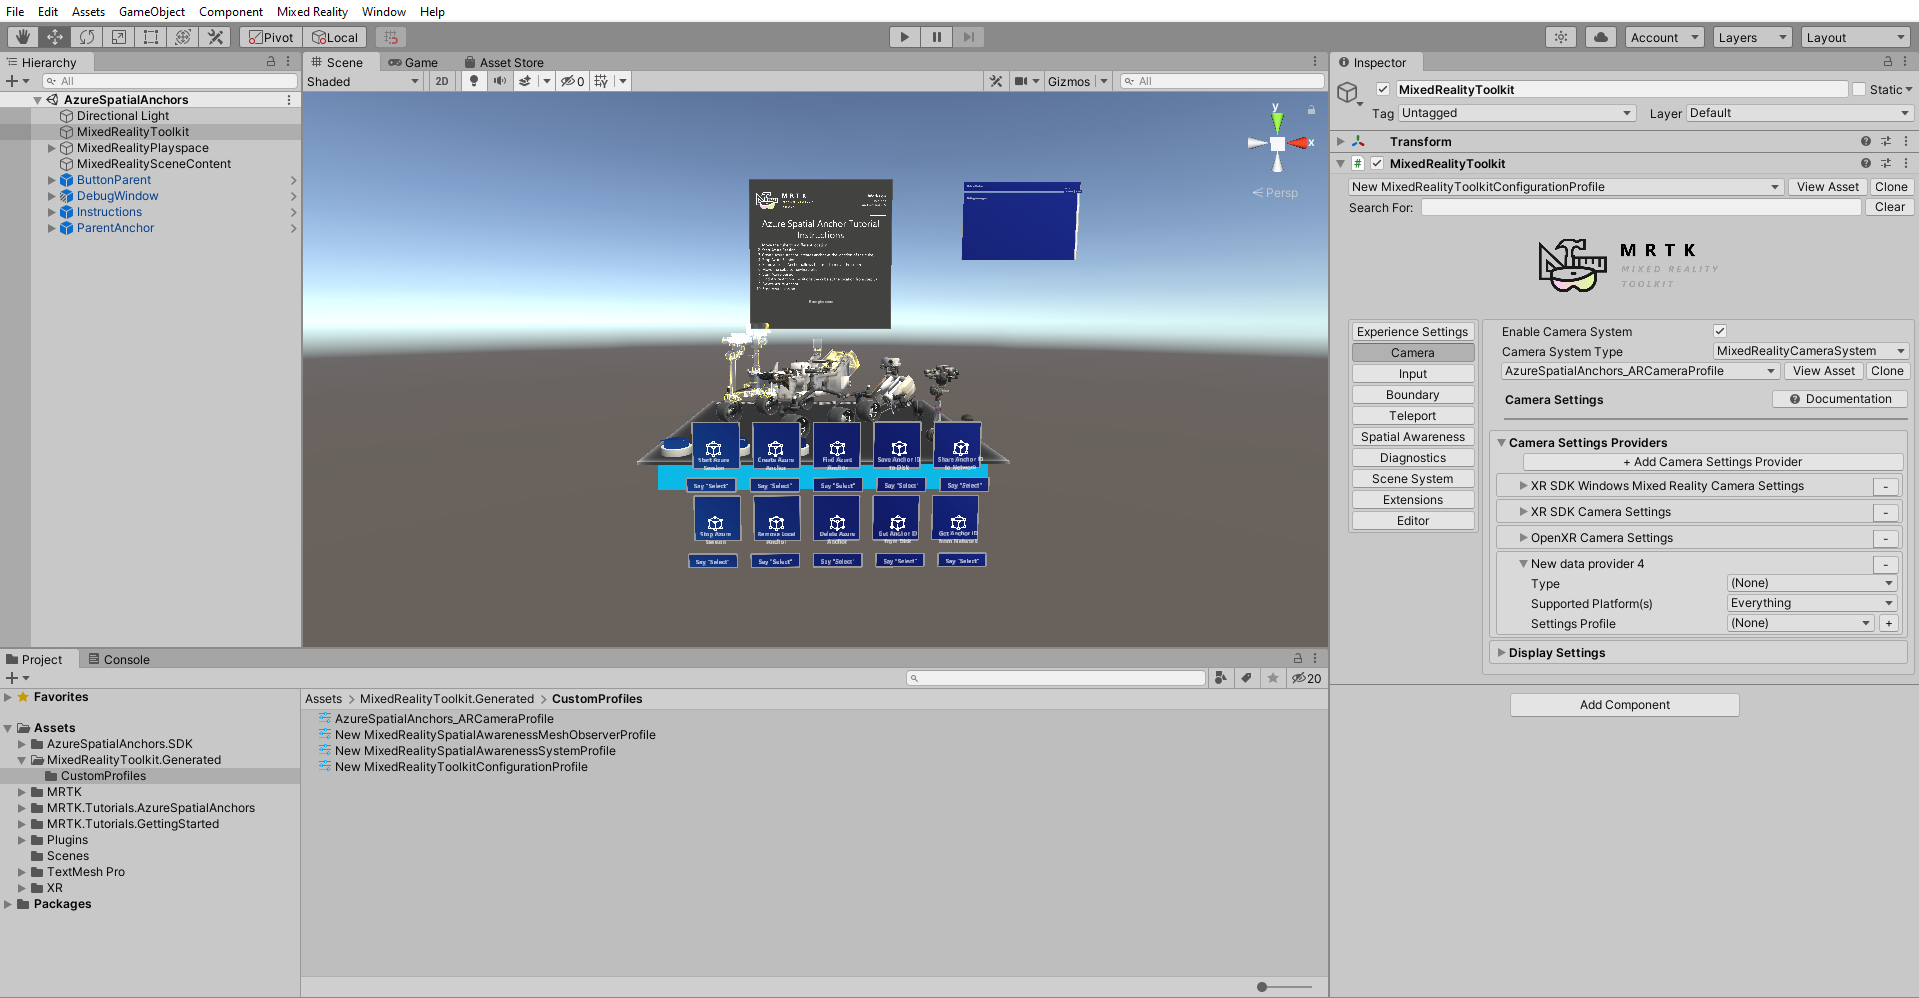
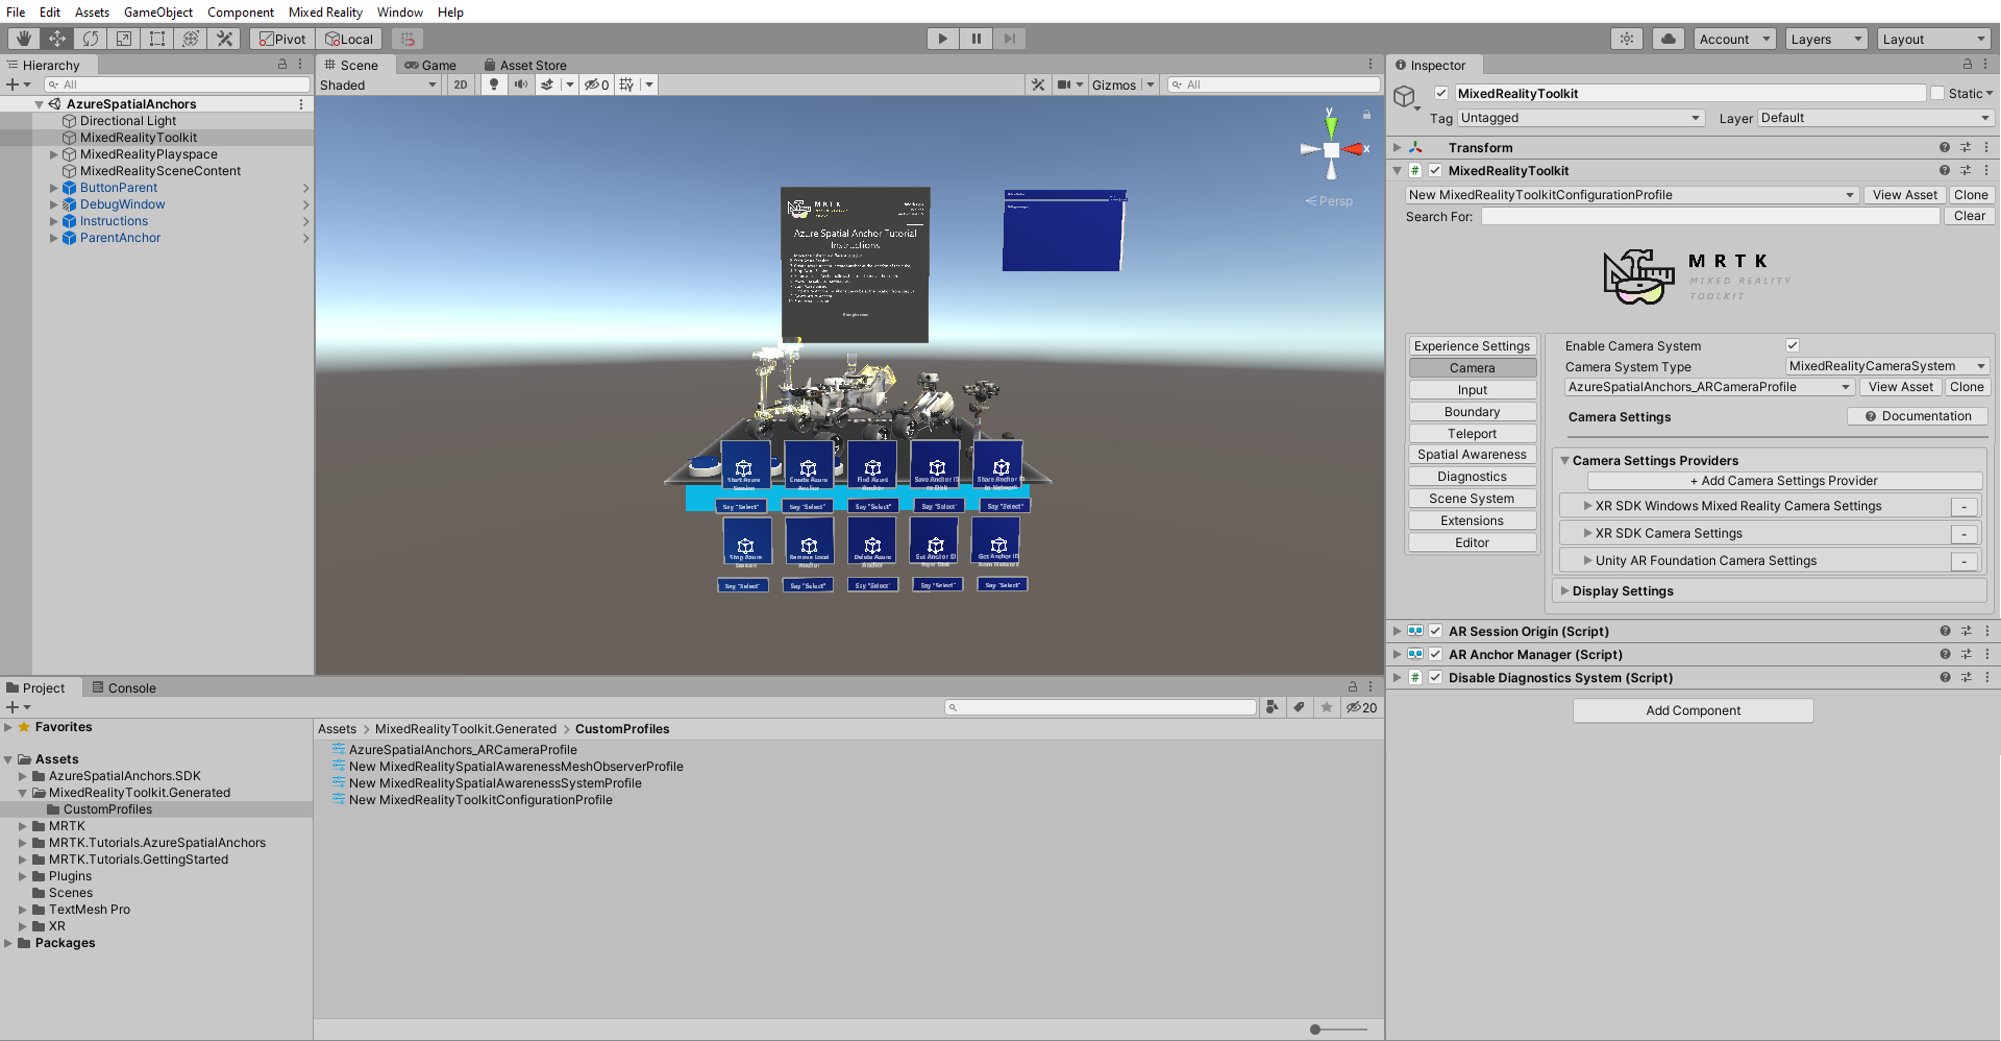
Chp-05 AR anchor scripted and camera setting screenshots updated

diff --git a/mixed-reality-docs/mr-dev-docs/develop/unity/tutorials/mr-learning-asa-05.md b/mixed-reality-docs/mr-dev-docs/develop/unity/tutorials/mr-learning-asa-05.md
@@ -33,13 +33,17 @@ In the Hierarchy window, select the **MixedRealityToolkit** object. Then in the 
 > [!TIP]
 > For a reminder on how to clone MRTK profiles, you can refer to the [Configuring the Mixed Reality Toolkit profiles](mr-learning-base-03.md) instructions.
 
-With the **Camera** tab still selected in the Inspector window, expand the **Camera Setting Providers** and click the **+ Add Camera Setting Provider** button, then expand the newly added **New data provider 4**:
+With the **Camera** tab still selected in the Inspector window, expand the **Camera Setting Providers** and by clicking the "-" remove the **Windows Mixed Reality Camera Setting** or **XR SDK Windows Mixed Reality Camera Setting**:
 
 ![Unity ARCameraProfile with new data provider added](images/mr-learning-asa/asa-05-section2-step1-2.png)
 
+and click the **+ Add Camera Setting Provider** button, then expand the newly added **New data provider**:
+
+![Unity ARCameraProfile with new data provider added](images/mr-learning-asa/asa-05-section2-step1-3.png)
+
 Using the **Type** dropdown, change the type to **Microsoft.MixedReality.Toolkit.Experimental.UnityAR** > **UnityARCameraSettings**:
 
-![Unity ARCameraProfile with path to data provider type selection](images/mr-learning-asa/asa-05-section2-step1-3.png)
+![Unity ARCameraProfile with path to data provider type selection](images/mr-learning-asa/asa-05-section2-step1-4.png)
 
 Update the MRTK UnityAR scripting defines by invoking the menu item: **Mixed Reality** > **Toolkit** > **Utilities** > **UnityAR** > Update Scripting Defines
 
